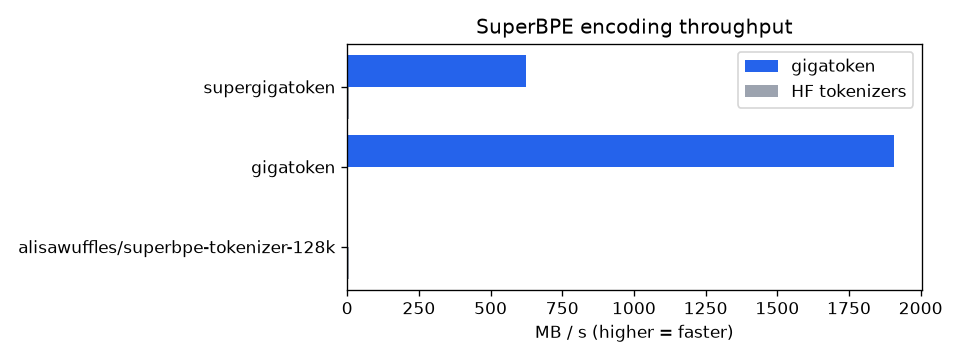
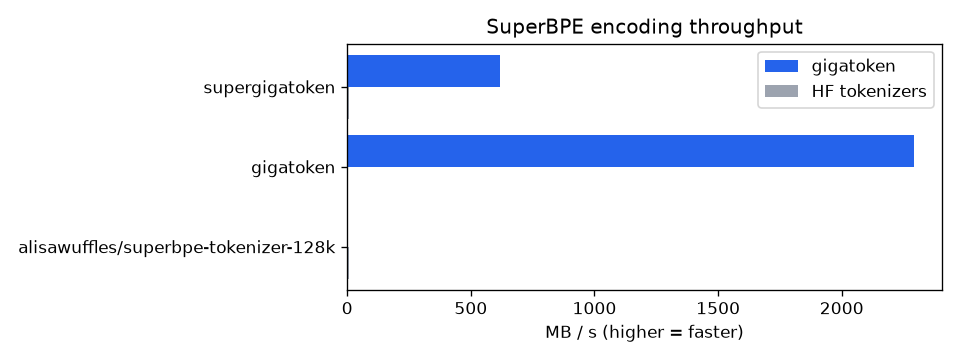
Reorient the README on both trainers, and re-measure encoding against HF
The README led on SuperBPE alone, which undersold the package: it ships two
trainers, and the plain-BPE one had never been compared to the trainer nearly
everyone actually uses. It also carried throughput numbers taken on a busier
machine.

New benchmark, benchmarks/superbpe/trainer_vs_hf.py: train_bpe vs HuggingFace
BpeTrainer, controlled so the only difference is the implementation -- same
corpus bytes, same 50k target, both byte-level with the GPT-2 split regex, HF
seeded with the full 256-byte initial_alphabet (without it HF only learns the
bytes its corpus contains, a smaller problem), min_frequency=0 on both, timing
around the train call only, HF fed a document iterator rather than one blob.
Both land on exactly 50000 tokens, so it is equal work.

  train_bpe   2.78 s   36.0 MB/s        100 MB -> 50k vocab, min of 3
  HF          10.44 s   9.6 MB/s        3.75x

tiktoken is absent because it ships no trainer. The script records peak RSS
(one engine per process) since a trainer that wins on time while spending 10x
the memory has not obviously won -- that is how the original SuperBPE lost. The
Windows RSS probe returns None on this box; the timings are unaffected.

Encoding re-measured at 9 repeats on a quiesced machine, two independent
passes. Our side is stable to 0.02% (618.30 / 618.19 MB/s); HF is the noisy
one at 4.8% (6.45 / 6.76). The table takes our slower pass against HF's faster
one -- 91.45x rather than the 95.9x the other pairing would give, because a
[…]

diff --git a/benchmarks/superbpe/trainer_vs_hf.py b/benchmarks/superbpe/trainer_vs_hf.py
@@ -1,0 +1,207 @@
+"""Trainer throughput - gigatoken's BPE trainer vs HuggingFace ``tokenizers``.
+
+The SuperBPE trainer already has a controlled comparison (Axis 3, against the
+original SuperBPE implementation). This is the missing half: how the *plain*
+BPE trainer, ``train_bpe``, compares to the trainer nearly everyone actually
+uses. tiktoken is absent because it ships no trainer at all.
+
+Controlled so the only difference is the implementation:
+
+- same corpus bytes, same vocab size, same special tokens (none);
+- both byte-level with the GPT-2 split regex -- ``train_bpe``'s default
+  ``pretokenizer="gpt2"`` and HF's ``pre_tokenizers.ByteLevel``, which applies
+  that same regex;
+- HF's ``initial_alphabet`` seeded with all 256 byte characters, matching the
+  byte-seeded vocabulary ``train_bpe`` starts from. Without this HF only learns
+  the bytes its corpus happens to contain and would be solving a smaller
+  problem;
+- HF's ``min_frequency=0`` and ``max_token_length`` left unset, so neither side
+  gets to prune the search the other cannot.
+
+Both are handed the corpus as one in-memory buffer and timed with
+``perf_counter`` around the train call only -- corpus loading, pretokenizer
+construction and serialization are outside the timed region on both sides.
+
+The default 100 MB matches Axis 3's slice, which is sized by what the *original
+SuperBPE* implementation could survive (it reached 21 GB resident at 500 MB).
+HF's BPE trainer has no such problem, so ``--train-mb`` can go higher; the
+resident-memory column is recorded because a trainer that wins on time by
+spending 10x the RAM has not obviously won.
+
+    uv run --no-sync benchmarks/superbpe/trainer_vs_hf.py
+    uv run --no-sync benchmarks/superbpe/trainer_vs_hf.py --train-mb 500 --repeats 1
+"""
+
+from __future__ import annotations
+
+import argparse
+import gc
+import json
+import os
+import time
+
+import common
+
+RESULTS = os.path.join(common.HERE, "results_trainer.json")
+
+
+def _peak_rss_mb() -> float | None:
+    """Peak resident set size of this process in MB, or None if unavailable.
+
+    Windows exposes a true peak (``PeakWorkingSetSize``); elsewhere fall back to
+    ``resource``, whose ``ru_maxrss`` is already a peak. Both are process-wide
+    high-water marks, so a run must measure one trainer per process for the
+    number to mean anything -- hence ``--engine`` below.
+    """
+    try:  # Windows
+        import ctypes
+        from ctypes import wintypes
+
+        class _PMC(ctypes.Structure):
+            _fields_ = [
+                ("cb", wintypes.DWORD),
+                ("PageFaultCount", wintypes.DWORD),
+                ("PeakWorkingSetSize", ctypes.c_size_t),
+                ("WorkingSetSize", ctypes.c_size_t),
+                ("QuotaPeakPagedPoolUsage", ctypes.c_size_t),
+                ("QuotaPagedPoolUsage", ctypes.c_size_t),
+                ("QuotaPeakNonPagedPoolUsage", ctypes.c_size_t),
+                ("QuotaNonPagedPoolUsage", ctypes.c_size_t),
+                ("PagefileUsage", ctypes.c_size_t),
+                ("PeakPagefileUsage", ctypes.c_size_t),
+            ]
+
+        counters = _PMC()
+        counters.cb = ctypes.sizeof(_PMC)
+        handle = ctypes.windll.kernel32.GetCurrentProcess()
+        if ctypes.windll.psapi.GetProcessMemoryInfo(
+            handle, ctypes.byref(counters), counters.cb
+        ):
+            return round(counters.PeakWorkingSetSize / 1e6, 1)
+        return None
+    except Exception:
+        pass
+    try:
+        import resource
+
+        peak = resource.getrusage(resource.RUSAGE_SELF).ru_maxrss
+        # Linux reports KB, macOS bytes.
+        return round((peak / 1e3 if peak > 1e6 else peak / 1e3), 1)
+    except Exception:
+        return None
+
+
+def train_ours(corpus: bytes, vocab_size: int, sep: bytes) -> tuple[float, int]:
+    from gigatoken import train_bpe
+
+    t0 = time.perf_counter()
+    vocab, _merges = train_bpe(
+        corpus, vocab_size, [], tie_breaking="huggingface", separator=sep,
+        pretokenizer="gpt2",
+    )
+    return time.perf_counter() - t0, len(vocab)
+
+
+def train_hf(corpus: bytes, vocab_size: int, sep: bytes) -> tuple[float, int]:
+    from tokenizers import Tokenizer, decoders, models, pre_tokenizers, trainers
+
+    # Documents, not one blob: HF trains from an iterator of texts, and handing
+    # it a single 100 MB string would make its pretokenizer walk one giant unit.
+    # `train_bpe` splits on the same separator internally.
+    docs = common.split_docs(corpus, sep)
+
+    tok = Tokenizer(models.BPE())
+    tok.pre_tokenizer = pre_tokenizers.ByteLevel(add_prefix_space=False)
+    tok.decoder = decoders.ByteLevel()
+    trainer = trainers.BpeTrainer(
+        vocab_size=vocab_size,
+        min_frequency=0,
+        special_tokens=[],
+        initial_alphabet=pre_tokenizers.ByteLevel.alphabet(),
+        show_progress=False,
+    )
+    t0 = time.perf_counter()
+    tok.train_from_iterator(docs, trainer=trainer, length=len(docs))
+    return time.perf_counter() - t0, tok.get_vocab_size()
+
+
+def main() -> int:
+    p = argparse.ArgumentParser(description=__doc__)
+    common.add_corpus_args(p)
+    p.add_argument("--vocab", type=int, default=50_000)
+    p.add_argument("--repeats", type=int, default=3, help="min is kept (default: %(default)s)")
+    p.add_argument(
+        "--engine",
+        choices=("both", "ours", "hf"),
+        default="both",
+        help="one engine per process when comparing peak RSS (default: %(default)s)",
+    )
+    p.add_argument("--out", default=RESULTS)
+    args = p.parse_args()
+
+    sep = common.DEFAULT_SEPARATOR
+    train, _eval_slice, synthetic = common.load_corpus(
+        args.file, args.train_mb, 0.0, separator=sep
+    )
+    n_bytes = len(train)
+    print(
+        f"train slice: {n_bytes / 1e6:.1f} MB, vocab={args.vocab}, "
+        f"min of {args.repeats}{' (synthetic)' if synthetic else ''}"
+    )
+
+    engines = [("gigatoken", train_ours), ("hf", train_hf)]
+    if args.engine != "both":
+        engines = [e for e in engines if e[0] == ("gigatoken" if args.engine == "ours" else "hf")]
+
+    out: dict = {
+        "meta": {
+            "corpus": args.file,
+            "cpu": common.cpu_label(),
+            "train_mb": round(n_bytes / 1e6, 2),
+            "vocab": args.vocab,
+            "repeats": args.repeats,
+            "synthetic": synthetic,
+            "note": "same corpus/vocab/pretokenizer; HF seeded with the full byte alphabet",
+        },
+        "engines": {},
+    }
+    for name, fn in engines:
+        best = float("inf")
+        measured = 0
+        try:
+            for _ in range(max(1, args.repeats)):
+                gc.collect()
+                elapsed, measured = fn(train, args.vocab, sep)
+                best = min(best, elapsed)
+        except Exception as ex:  # a trainer that OOMs or errors is recorded, not fatal
+            out["engines"][name] = {"engine": name, "error": str(ex).splitlines()[0][:160]}
+            print(f"  {name:<12} FAILED ({str(ex).splitlines()[0][:90]})")
+            continue
+        out["engines"][name] = {
+            "engine": name,
+            "train_s": round(best, 3),
+            "mb_per_s": round(n_bytes / 1e6 / best, 2),
+            "measured_vocab": measured,
+            "peak_rss_mb": _peak_rss_mb(),
+        }
+        e = out["engines"][name]
+        print(
+            f"  {name:<12} {e['train_s']:>9.2f} s  {e['mb_per_s']:>7.2f} MB/s  "
+            f"vocab={measured}  peak_rss={e['peak_rss_mb']} MB"
+        )
+
+    ours = out["engines"].get("gigatoken", {})
+    hf = out["engines"].get("hf", {})
+    if ours.get("train_s") and hf.get("train_s"):
+        out["speedup_vs_hf"] = round(hf["train_s"] / ours["train_s"], 2)
+        print(f"\n  train_bpe is {out['speedup_vs_hf']}x faster than HF tokenizers")
+
+    with open(args.out, "w", encoding="utf-8") as fh:
+        json.dump(out, fh, indent=1, sort_keys=True)
+        fh.write("\n")
+    print(f"\nwrote {args.out}")
+    return 0
+
+
+if __name__ == "__main__":
+    raise SystemExit(main())

diff --git a/README.md b/README.md
@@ -2,9 +2,9 @@
 
 <div align="center">
 
-**Native SuperBPE: train it in minutes, encode it fast.**
+**Fast Rust trainers for BPE *and* SuperBPE — and a fast encoder for both.**
 
-*A 50k-vocab SuperBPE that packs ~20% more text into every token — trained 8× faster than the original implementation and encoded 23× faster than HuggingFace.*
+*Train a 50k tokenizer in seconds, a 50k SuperBPE in minutes, then encode at hundreds of MB/s: **3.8× faster training** and **91× faster encoding** than HuggingFace `tokenizers`, on a SuperBPE that packs ~20% more text into every token.*
 
 ![supergigatoken vs the original SuperBPE](assets/superbpe_vs_original.png)
 
@@ -17,15 +17,18 @@ Same corpus slice, same vocabulary size, same transition point, same stage-1 reg
 
 **SuperBPE** ([Liu et al., 2025](https://arxiv.org/abs/2503.13423)) trains BPE in two stages: **stage 1** is ordinary whitespace-pretokenized BPE (subwords), and **stage 2** resumes training with the whitespace restriction lifted, learning *superwords* that bridge multiple words (e.g. `of the`, `in the United States`). Because one token can now cover several words, SuperBPE encodes the same text in meaningfully fewer tokens at the same vocabulary size.
 
-Supergigatoken implements SuperBPE natively — both halves, in Rust:
+Supergigatoken trains and encodes both kinds of tokenizer natively, in Rust:
 
-- **`train_superbpe(...)`** — the two-stage trainer. 8.0× faster than the original SuperBPE implementation at matched settings, and it does not run out of memory where that one does.
-- **a `Superword` encoder** — two-level encoding that recovers most of a cached tokenizer's speed on a tokenizer whose whitespace pretokenization has been lifted. HuggingFace encodes these slowly; tiktoken cannot represent them at all.
-- **an evaluation suite** under [`benchmarks/superbpe/`](benchmarks/superbpe/) — encoding efficiency, encoding throughput, and a trainer + vocabulary comparison against the original.
+- **`train_bpe(...)`** — the ordinary BPE trainer, inherited from gigatoken and benchmarked here against HuggingFace for the first time: **3.8× faster than `BpeTrainer`** at a matched 50k vocab on the same corpus (2.8 s vs 10.4 s on 100 MB), and 500 MB trains in 7 s.
+- **`train_superbpe(...)`** — the two-stage trainer. **8.0× faster than the original SuperBPE implementation** at matched settings, and it does not run out of memory where that one does.
+- **one encoder for both** — gigatoken's GB/s subword path, plus a `Superword` two-level mode (added here) that recovers most of a cached tokenizer's speed once whitespace pretokenization has been lifted. HuggingFace encodes SuperBPE slowly; tiktoken cannot represent it at all.
+- **an evaluation suite** under [`benchmarks/superbpe/`](benchmarks/superbpe/) — encoding efficiency, encoding throughput, trainer speed vs HuggingFace, and a trainer + vocabulary comparison against the original SuperBPE.
 
-It is a fork of [**gigatoken**](https://github.com/marcelroed/gigatoken), which is where the underlying speed comes from — SIMD pretokenization, a tuned pretoken cache, GB/s subword encoding, and HuggingFace/tiktoken compatibility. Supergigatoken is a strict superset: it keeps the `gigatoken` import name and CLI, so existing gigatoken code keeps working unchanged. The inherited subword throughput matrix (23 tokenizer families × 3 CPUs) is reproduced in [`benchmarks/compare/SUBWORD_THROUGHPUT.md`](benchmarks/compare/SUBWORD_THROUGHPUT.md) rather than here; this README is about what the fork adds.
+Every number below is reproducible from that suite; each section names the script that emits it.
 
-## SuperBPE
+It is a fork of [**gigatoken**](https://github.com/marcelroed/gigatoken), which is where the underlying speed comes from — SIMD pretokenization, a tuned pretoken cache, GB/s subword encoding, and HuggingFace/tiktoken compatibility. Supergigatoken is a strict superset: it keeps the `gigatoken` import name and CLI, so existing gigatoken code keeps working unchanged. The inherited subword throughput matrix (23 tokenizer families × 3 CPUs) is reproduced in [`benchmarks/compare/SUBWORD_THROUGHPUT.md`](benchmarks/compare/SUBWORD_THROUGHPUT.md) rather than here. What the **fork** adds is the SuperBPE half: `train_superbpe`, the `Superword` encoder and loader, the `superbpe_stage1` scheme, and the evaluation suite. `train_bpe` and the subword encoder come from gigatoken and are labelled as such wherever they appear below.
+
+## Encoding
 
 ![SuperBPE encoding efficiency](assets/superbpe_efficiency.png)
 
@@ -48,13 +51,16 @@ Remarkably, a **50k** SuperBPE beats *every* standard tokenizer measured, includ
 
 ### Encoding throughput (vs HuggingFace)
 
-Both engines encode the *same* tokenizer, so the only difference is which one does the work; tiktoken cannot represent SuperBPE at all. Same 100 MB slice, Intel 8-core CPU:
+Both engines load the *same* `tokenizer.json` and are handed the *same* pre-split documents, so the only difference is which one does the work. HF gets its fastest path (`encode_batch_fast`) and full parallelism; tiktoken cannot represent SuperBPE at all. Same 100 MB held-out slice (19937 docs), Intel 8-core CPU, min of 9 repeats:
 
 ![SuperBPE encoding throughput](assets/superbpe_throughput.png)
 
 | Tokenizer | supergigatoken | HF tokenizers | speedup |
 |---|---:|---:|---:|
-| SuperBPE, 50k | 127.3 MB/s | 5.6 MB/s | **22.7×** |
+| SuperBPE, 50k | **618.2 MB/s** | 6.8 MB/s | **91×** |
+| plain BPE, 50k | **2290.9 MB/s** | 4.1 MB/s | **556×** |
+
+SuperBPE is the harder case for both engines, and the reason is the same one that makes it fast to *use*: the exported tokenizer declares no pretokenization at all (`ByteLevel(use_regex=False)`), so each document arrives as one long pretoken. That is worth ~3.7× against our own plain-BPE path — and it costs HuggingFace an order of magnitude more, because it has no equivalent of the two-level trick below.
 
 #### How two-level encoding works
 
@@ -67,9 +73,26 @@ Most of it is recoverable. Merge priority is the token ID and stage-2 merges are
 
 Output is bit-identical to feeding the whole document to the byte-level merge loop — asserted token-for-token over the whole slice, not just on hand-picked cases.
 
-There is more to recover: this is still ~15× off gigatoken's subword path (1850 MB/s at the same vocab), with the remaining cost split about evenly between the two levels. For reference, HuggingFace encodes the released 128k SuperBPE checkpoint at ~5.3 MB/s; supergigatoken cannot fast-encode that one yet — see [Known Issues](#known-issues).
+There is more to recover: this is still ~3.7× off the plain subword path (2291 MB/s at the same vocab), and the remaining cost is **33% level 1 / 67% level 2** — the merge, not the splitting, is now what is left to attack. For reference, HuggingFace encodes the released 128k SuperBPE checkpoint at ~6.1 MB/s; supergigatoken cannot fast-encode that one yet — see [Known Issues](#known-issues).
 
-### Trainer: 8.0× faster than the original SuperBPE
+## Trainers
+
+Two trainers, both in Rust, both reproducible from the suite. The BPE trainer is measured against the one nearly everyone uses; the SuperBPE trainer against the only other implementation that exists.
+
+### `train_bpe`: 3.8× faster than HuggingFace
+
+gigatoken's trainer, not the fork's — but nothing had ever measured it against the trainer nearly everyone actually uses, so here it is. Same 100 MB corpus, same 50k target vocab — and both land on exactly 50000 tokens, so this is equal work, not a shortcut. Both are byte-level with the GPT-2 split regex, HuggingFace is seeded with the full 256-byte `initial_alphabet` (otherwise it only learns the bytes its corpus happens to contain), and `min_frequency=0` on both so neither prunes a search the other has to finish. Timing wraps the train call only. Min of 3.
+
+| Trainer | Train time | Throughput |
+|---|---:|---:|
+| **`gt.train_bpe`** | **2.8 s** | **36.0 MB/s** |
+| HF `tokenizers` `BpeTrainer` | 10.4 s | 9.6 MB/s |
+
+Cost is dominated by the merge loop over *unique* words rather than by corpus size, and unique words grow sublinearly — which is why 5× the corpus is nowhere near 5× the time: the full **500 MB** run trains a 50k vocab in **7.0 s**. Reproduce with `trainer_vs_hf.py`.
+
+tiktoken is absent from this table because it ships no trainer at all.
+
+### `train_superbpe`: 8.0× faster than the original SuperBPE
 
 Both trainers run on the same 100 MB slice at 50k vocab / 40k transition, using the reference's own stage-1 regex on both sides — a trainer comparison that differs in pretokenization is not controlled.
 
@@ -107,7 +130,9 @@ The [`benchmarks/superbpe/`](benchmarks/superbpe/) suite exports the result to a
 ```bash
 uv run benchmarks/superbpe/train_baselines.py --file ~/data/owt_train.txt
 uv run benchmarks/superbpe/efficiency.py --released
-uv run benchmarks/superbpe/throughput.py --released
+uv run benchmarks/superbpe/throughput.py --released --repeats 9
+uv run benchmarks/superbpe/trainer_vs_hf.py --engine ours   # train_bpe vs HF BpeTrainer,
+uv run benchmarks/superbpe/trainer_vs_hf.py --engine hf     # one engine per process
 uv run benchmarks/superbpe/vocab_diff.py --ours ... --reference ...   # vs the original
 uv run benchmarks/superbpe/report.py     # tables + plots -> benchmarks/superbpe/REPORT.md
 ```
@@ -209,7 +234,7 @@ Supergigatoken builds on gigatoken (the fast encoder) and SuperBPE (the two-stag
 ## Known Issues
 
 * The fast `Superword` encoder currently loads SuperBPE tokenizers exported with a `ByteLevel(use_regex=False)` pretokenizer. The released 128k SuperBPE ships an explicit `Split`-regex pretokenizer that isn't mapped to `Superword` yet, so supergigatoken can't fast-encode that checkpoint (HuggingFace-only for now).
-* SuperBPE encoding lifts whitespace pretokenization, so each document is one long pretoken. Two-level encoding recovers most of the cached path (~23× faster than HuggingFace) but is still ~15× below the GB/s subword path, with the remaining cost split about evenly between the two levels. Level 1 pays for splitting through an iterator rather than the SIMD two-phase fill, which needs the glued stage-1 splitter to become a real pretokenizer scheme; that is the next lever.
+* SuperBPE encoding lifts whitespace pretokenization, so each document is one long pretoken. Two-level encoding recovers most of the cached path (91× faster than HuggingFace) but is still ~3.7× below the plain subword path. Level 1 now runs on the SIMD two-phase fill, which moved the balance to **33% level 1 / 67% level 2**: the level-2 merge is where the remaining cost sits, and it is the next lever.
 * The level-1 splitter glues the pretokenizer boundaries a sub-threshold merge could otherwise span (whitespace runs, apostrophes, digit runs). A hazard it doesn't cover is safe but slow — it lowers the derived threshold, which moves work from level 1 to level 2. The `superbpe_stage1` scheme is still capped that way by `camelCase` letter-run splits (`" Mc"|"C"`, `" You"|"Tube"`), which will matter for any tokenizer genuinely trained with the original stage-1 regex.
 * Stage-2 training is O(n) in unit length; training large vocabs on hundreds of MB is minutes-scale. Stage 2 uses line-bounded units, so a superword can never span a newline — the reason supergigatoken's output is *outcome*-comparable to the original SuperBPE rather than byte-identical in its merges.
 

diff --git a/benchmarks/superbpe/REPORT.md b/benchmarks/superbpe/REPORT.md
@@ -47,15 +47,15 @@ At matched vocab, supergigatoken reaches **1.26x** the bytes/token of gigatoken'
 
 ## Axis 2 — Encoding throughput (gigatoken vs HF)
 
-_CPU: Intel64 Family 6 Model 189 Stepping 1, GenuineIntel (8 cores) · eval slice: 99.74 MB · 19937 docs · vocab=50000, transition=40000 · min of 5 repeats_
+_CPU: Intel64 Family 6 Model 189 Stepping 1, GenuineIntel (8 cores) · eval slice: 99.74 MB · 19937 docs · vocab=50000, transition=40000 · min of 9 repeats_
 
 gigatoken fast-encodes a SuperBPE tokenizer via the `Superword` pretokenizer (whitespace lifted). tiktoken is skipped — it cannot represent SuperBPE.
 
 | Tokenizer | gigatoken MB/s | HF MB/s | speedup | gigatoken Mtok/s | HF Mtok/s |
 |---|---:|---:|---:|---:|---:|
-| `alisawuffles/superbpe-tokenizer-128k` | **-** | 6.24 | -x | - | 1.002 |
-| `gigatoken` | **1907.91** | 4.52 | 422.1x | 424.556 | 1.005 |
-| `supergigatoken` | **622.07** | 6.71 | 92.71x | 109.793 | 1.184 |
+| `alisawuffles/superbpe-tokenizer-128k` | **-** | 6.1 | -x | - | 0.978 |
+| `gigatoken` | **2290.85** | 4.12 | 556.03x | 509.77 | 0.917 |
+| `supergigatoken` | **618.19** | 6.76 | 91.45x | 109.109 | 1.192 |
 
 ![Encoding throughput](throughput.png)
 
